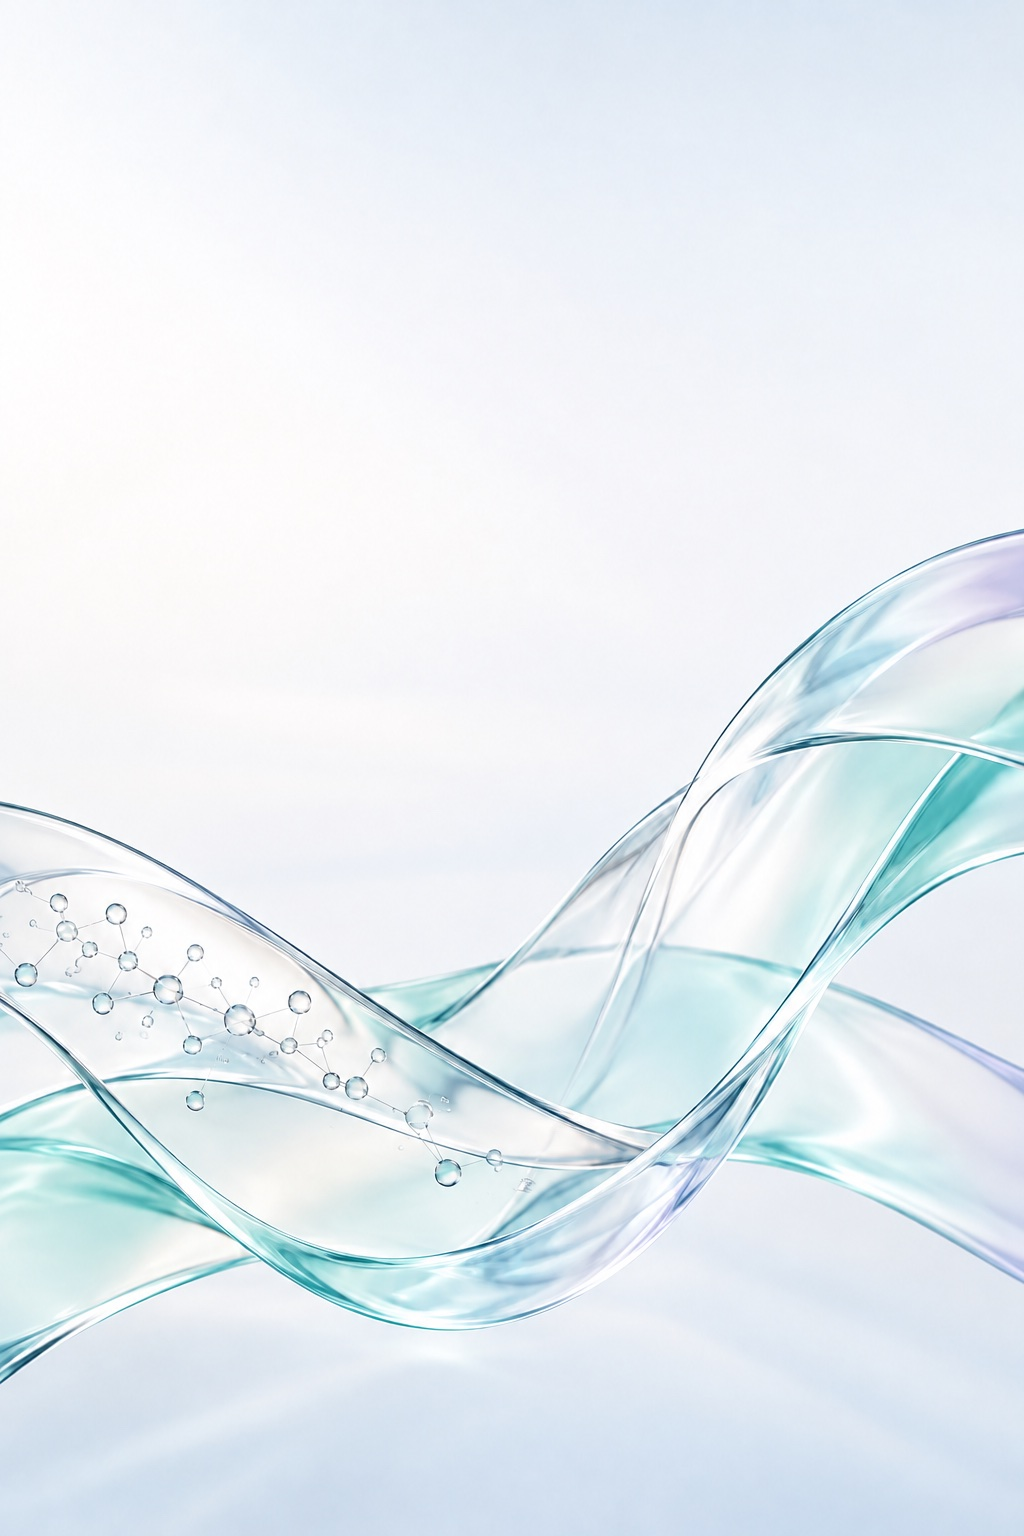
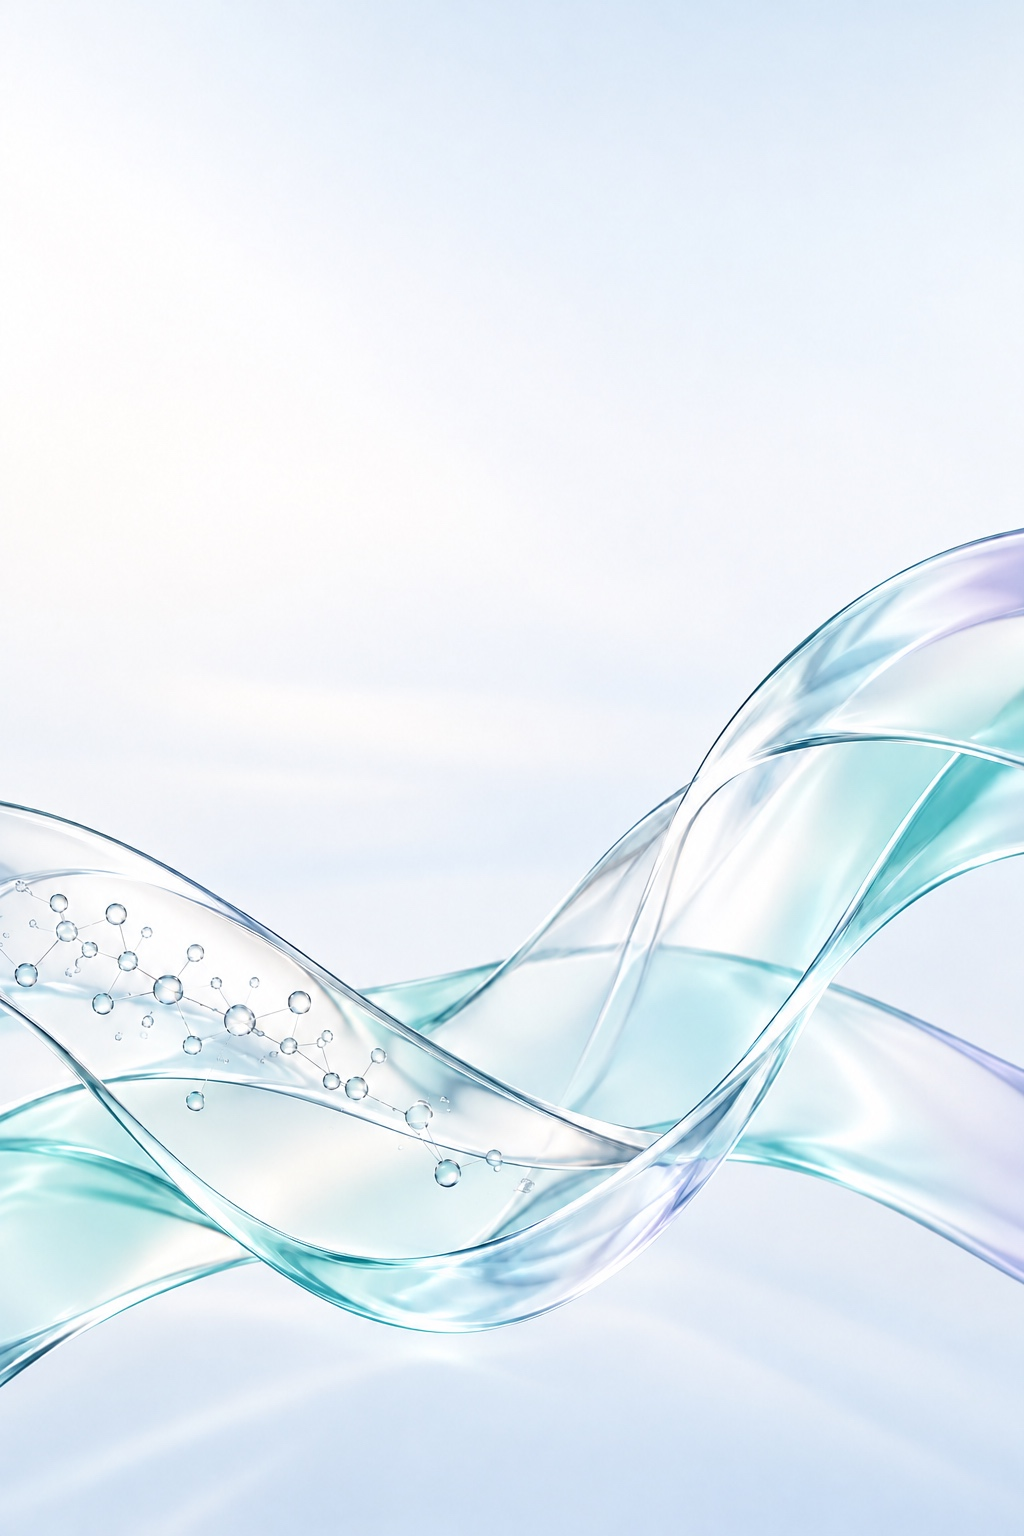
Auth left panel: sharper login-bg image

diff --git a/mypage-quote.html b/mypage-quote.html
@@ -9,12 +9,12 @@
      ?rid=프로젝트 번호 → 컨설턴트가 보낸 견적 요청: 의뢰내용 + 견적서 작성(고객사 / 공급자 / 제안가 / 소요 기간 / Notice) · 견적 거절 · 수정 요청 반영
      ?id=프로젝트번호 → 프로젝트 찾기에서 직접 쓰는 견적 (예전 방식, op.quotes2)
      ?id 없음 → 받은 견적 요청 목록. 데이터: assets/common/flow.js -->
-<link rel="stylesheet" href="assets/common/site.css?v=20261008w">
-<link rel="stylesheet" href="assets/common/mypage.css?v=20261008w">
-<script src="assets/common/site.js?v=20261008w"></script>
-<script src="assets/common/mypage.js?v=20261008w"></script>
-<script src="assets/common/flow.js?v=20261008w"></script>
-<script src="assets/common/projects-data.js?v=20261008w"></script>
+<link rel="stylesheet" href="assets/common/site.css?v=20261008x">
+<link rel="stylesheet" href="assets/common/mypage.css?v=20261008x">
+<script src="assets/common/site.js?v=20261008x"></script>
+<script src="assets/common/mypage.js?v=20261008x"></script>
+<script src="assets/common/flow.js?v=20261008x"></script>
+<script src="assets/common/projects-data.js?v=20261008x"></script>
 <style>
   /* 탭 (상단에 붙음) */
   .qtabs { position:sticky; top:70px; z-index:5; display:flex; gap:8px; margin:-24px -24px 0; padding:16px 24px; background:#fff; border-radius:16px 16px 0 0; border-bottom:1px solid var(--gray-200); }

diff --git a/mypage-leave.html b/mypage-leave.html
@@ -7,11 +7,11 @@
 <title>회원 탈퇴 · 마이페이지 · OmicsPharm</title>
 <!-- 마이페이지 > 내 정보 관리 > 회원 탈퇴 (Figma 시안 없음, 레퍼런스 화면 구성: 탈퇴 안내 → 탈퇴 사유·개선사항 → 동의 → 취소/탈퇴).
      진행 중인 프로젝트·계약이 있으면 탈퇴 불가. 데모: 탈퇴하면 이 브라우저의 계정(op.accounts)을 지우고 로그아웃 (데모 계정은 로그아웃만) -->
-<link rel="stylesheet" href="assets/common/site.css?v=20261008w">
-<link rel="stylesheet" href="assets/common/mypage.css?v=20261008w">
-<script src="assets/common/site.js?v=20261008w"></script>
-<script src="assets/common/mypage.js?v=20261008w"></script>
-<script src="assets/common/flow.js?v=20261008w"></script>
+<link rel="stylesheet" href="assets/common/site.css?v=20261008x">
+<link rel="stylesheet" href="assets/common/mypage.css?v=20261008x">
+<script src="assets/common/site.js?v=20261008x"></script>
+<script src="assets/common/mypage.js?v=20261008x"></script>
+<script src="assets/common/flow.js?v=20261008x"></script>
 <style>
   .leave-card { gap:40px; }
   .sec h4 { margin-bottom:12px; font-size:18px; font-weight:600; line-height:24px; letter-spacing:-.18px; }

diff --git a/omicspharm-project-detail-prot.html b/omicspharm-project-detail-prot.html
@@ -6,11 +6,11 @@
 <link rel="icon" type="image/png" href="assets/common/favicon.png?v=2">
 <title>프로젝트 상세 · 단백체 분석 · OmicsPharm</title>
 <!-- Figma: 프로젝트 상세 – 단백체 분석 (867:21166). ?id=로 프로젝트를 고르며, 상단 요약은 데이터에서, 아래 상세 항목은 예시 내용을 공통으로 사용. 오른쪽 '비슷한 프로젝트 찾기 · 검색 AI' 카드(1063:26165)는 기능 확정 전이라 제외 -->
-<link rel="stylesheet" href="assets/common/site.css?v=20261008w">
-<script src="assets/common/site.js?v=20261008w"></script>
-<script src="assets/common/mypage.js?v=20261008w"></script>
-<script src="assets/common/flow.js?v=20261008w"></script>
-<script src="assets/common/projects-data.js?v=20261008w"></script>
+<link rel="stylesheet" href="assets/common/site.css?v=20261008x">
+<script src="assets/common/site.js?v=20261008x"></script>
+<script src="assets/common/mypage.js?v=20261008x"></script>
+<script src="assets/common/flow.js?v=20261008x"></script>
+<script src="assets/common/projects-data.js?v=20261008x"></script>
 <style>
   :root {
     --teal-50:#edfefa; --teal-600:#009788; --teal-700:#00786e; --bg-green:#f6faf9;

diff --git a/projects.html b/projects.html
@@ -8,11 +8,11 @@
 <!-- Figma: Find Projects1-list (993:12559) · Find Projects1-grid (996:13677)
      카드: Project-list (974:7938) · Project-card Type=card (147:1266)
      B안: Find Projects2-list (831:3469) · Find Projects2-grid (977:9070) — 오른쪽을 흰 박스 하나로 묶고 행을 구분선으로 나열. 기존 목록형(A안)은 ?list=a 로 비교. 그리드형은 구분선 격자가 기본, 박스 안 카드형은 ?grid=a 로 비교 -->
-<link rel="stylesheet" href="assets/common/site.css?v=20261008w">
-<script src="assets/common/site.js?v=20261008w"></script>
-<script src="assets/common/mypage.js?v=20261008w"></script>
-<script src="assets/common/flow.js?v=20261008w"></script>
-<script src="assets/common/projects-data.js?v=20261008w"></script>
+<link rel="stylesheet" href="assets/common/site.css?v=20261008x">
+<script src="assets/common/site.js?v=20261008x"></script>
+<script src="assets/common/mypage.js?v=20261008x"></script>
+<script src="assets/common/flow.js?v=20261008x"></script>
+<script src="assets/common/projects-data.js?v=20261008x"></script>
 <style>
   :root {
     --teal-50:#edfefa; --teal-500:#00bba6; --teal-600:#009788; --teal-700:#00786e;

diff --git a/mypage-alarm.html b/mypage-alarm.html
@@ -7,11 +7,11 @@
 <title>알림 · 마이페이지 · OmicsPharm</title>
 <!-- 마이페이지 > 알림 (Figma 시안 없음). GNB 종 아이콘이 이 화면으로 연결된다.
      알림은 이 브라우저의 의뢰·문의 기록 + 공지로 만든다(assets/common/mypage.js). 읽음 상태는 localStorage op.alarmRead -->
-<link rel="stylesheet" href="assets/common/site.css?v=20261008w">
-<link rel="stylesheet" href="assets/common/mypage.css?v=20261008w">
-<script src="assets/common/site.js?v=20261008w"></script>
-<script src="assets/common/mypage.js?v=20261008w"></script>
-<script src="assets/common/flow.js?v=20261008w"></script>
+<link rel="stylesheet" href="assets/common/site.css?v=20261008x">
+<link rel="stylesheet" href="assets/common/mypage.css?v=20261008x">
+<script src="assets/common/site.js?v=20261008x"></script>
+<script src="assets/common/mypage.js?v=20261008x"></script>
+<script src="assets/common/flow.js?v=20261008x"></script>
 <style>
   .bar { display:flex; align-items:center; justify-content:space-between; gap:16px; }
   .readall { font-size:14px; font-weight:500; line-height:20px; color:var(--gray-500); white-space:nowrap; }

diff --git a/mypage-request.html b/mypage-request.html
@@ -9,11 +9,11 @@
      ?id 없음 → 들어온 의뢰 목록 (검토 대기 / 견적 수집 중 / 클라이언트 검토 / 매칭 완료)
      ?id=프로젝트 번호 → 의뢰 검토 → 분석파트너 선택·견적 요청 → 견적 확인(수정 요청) → 클라이언트에게 전달 → 매칭 결과
      데이터: assets/common/flow.js (localStorage op.flow) -->
-<link rel="stylesheet" href="assets/common/site.css?v=20261008w">
-<link rel="stylesheet" href="assets/common/mypage.css?v=20261008w">
-<script src="assets/common/site.js?v=20261008w"></script>
-<script src="assets/common/mypage.js?v=20261008w"></script>
-<script src="assets/common/flow.js?v=20261008w"></script>
+<link rel="stylesheet" href="assets/common/site.css?v=20261008x">
+<link rel="stylesheet" href="assets/common/mypage.css?v=20261008x">
+<script src="assets/common/site.js?v=20261008x"></script>
+<script src="assets/common/mypage.js?v=20261008x"></script>
+<script src="assets/common/flow.js?v=20261008x"></script>
 <style>
   /* 목록 */
   .meta { display:flex; flex-wrap:wrap; align-items:center; gap:12px; font-size:14px; line-height:20px; }

diff --git a/mypage.html b/mypage.html
@@ -7,11 +7,11 @@
 <title>마이페이지 · OmicsPharm</title>
 <!-- 마이페이지 > 대시보드 (Figma 시안 없음 — 프로젝트 관리 화면과 같은 틀로 구성)
      진행 현황 / 최근 프로젝트 / 최근 알림 / 최근 문의. 데이터는 이 브라우저에서 제출한 의뢰·문의 기준 -->
-<link rel="stylesheet" href="assets/common/site.css?v=20261008w">
-<link rel="stylesheet" href="assets/common/mypage.css?v=20261008w">
-<script src="assets/common/site.js?v=20261008w"></script>
-<script src="assets/common/mypage.js?v=20261008w"></script>
-<script src="assets/common/flow.js?v=20261008w"></script>
+<link rel="stylesheet" href="assets/common/site.css?v=20261008x">
+<link rel="stylesheet" href="assets/common/mypage.css?v=20261008x">
+<script src="assets/common/site.js?v=20261008x"></script>
+<script src="assets/common/mypage.js?v=20261008x"></script>
+<script src="assets/common/flow.js?v=20261008x"></script>
 <style>
   .hello { flex-direction:row; align-items:center; justify-content:space-between; }
   .hello h2 { font-size:22px; font-weight:700; line-height:32px; letter-spacing:-.22px; }

diff --git a/mypage-account.html b/mypage-account.html
@@ -7,11 +7,11 @@
 <title>내 정보 관리 · 마이페이지 · OmicsPharm</title>
 <!-- 마이페이지 > 내 정보 관리 (Figma 시안 없음). 기본 정보 / (분석파트너) 분석 가능 서비스 / 비밀번호 변경 / 알림 설정 / 회원 탈퇴.
      데모: 저장은 이 브라우저 localStorage(op.accounts, op.alarmPref)에만 된다 -->
-<link rel="stylesheet" href="assets/common/site.css?v=20261008w">
-<link rel="stylesheet" href="assets/common/mypage.css?v=20261008w">
-<script src="assets/common/site.js?v=20261008w"></script>
-<script src="assets/common/mypage.js?v=20261008w"></script>
-<script src="assets/common/flow.js?v=20261008w"></script>
+<link rel="stylesheet" href="assets/common/site.css?v=20261008x">
+<link rel="stylesheet" href="assets/common/mypage.css?v=20261008x">
+<script src="assets/common/site.js?v=20261008x"></script>
+<script src="assets/common/mypage.js?v=20261008x"></script>
+<script src="assets/common/flow.js?v=20261008x"></script>
 <style>
   .card form { display:flex; flex-direction:column; gap:20px; }
   /* 표 형식 입력 (문의하기·프로젝트 의뢰와 동일) */

diff --git a/mypage-project.html b/mypage-project.html
@@ -7,11 +7,11 @@
 <title>마이페이지 · 프로젝트 관리 · OmicsPharm</title>
 <!-- 마이페이지 > 프로젝트 관리 > 의뢰내용. 현행 사이트 구성을 새 디자인 체계(Figma 토큰·컴포넌트)로 옮긴 임시 화면.
      분석 의뢰 제출 시 omicspharm-register.html이 localStorage 'op.submitted'에 저장한 내용을 보여준다 -->
-<link rel="stylesheet" href="assets/common/site.css?v=20261008w">
-<link rel="stylesheet" href="assets/common/mypage.css?v=20261008w">
-<script src="assets/common/site.js?v=20261008w"></script>
-<script src="assets/common/mypage.js?v=20261008w"></script>
-<script src="assets/common/flow.js?v=20261008w"></script>
+<link rel="stylesheet" href="assets/common/site.css?v=20261008x">
+<link rel="stylesheet" href="assets/common/mypage.css?v=20261008x">
+<script src="assets/common/site.js?v=20261008x"></script>
+<script src="assets/common/mypage.js?v=20261008x"></script>
+<script src="assets/common/flow.js?v=20261008x"></script>
 <style>
   :root {
     --teal-50:#edfefa; --teal-600:#009788; --teal-700:#00786e; --bg-green:#f6faf9;

diff --git a/mypage-inquiry.html b/mypage-inquiry.html
@@ -7,11 +7,11 @@
 <title>문의내역 · 마이페이지 · OmicsPharm</title>
 <!-- 마이페이지 > 문의내역 (Figma 시안 없음). 문의하기(contact.html)에서 보낸 문의(localStorage op.inquiries) + 답변 완료 예시 1건.
      행을 누르면 문의 내용과 답변이 펼쳐진다. ?id= 로 들어오면 해당 문의를 펼친다 -->
-<link rel="stylesheet" href="assets/common/site.css?v=20261008w">
-<link rel="stylesheet" href="assets/common/mypage.css?v=20261008w">
-<script src="assets/common/site.js?v=20261008w"></script>
-<script src="assets/common/mypage.js?v=20261008w"></script>
-<script src="assets/common/flow.js?v=20261008w"></script>
+<link rel="stylesheet" href="assets/common/site.css?v=20261008x">
+<link rel="stylesheet" href="assets/common/mypage.css?v=20261008x">
+<script src="assets/common/site.js?v=20261008x"></script>
+<script src="assets/common/mypage.js?v=20261008x"></script>
+<script src="assets/common/flow.js?v=20261008x"></script>
 <style>
   .bar { display:flex; align-items:center; justify-content:space-between; gap:16px; }
 

diff --git a/assets/auth/auth.css b/assets/auth/auth.css
@@ -20,7 +20,7 @@ input { font:inherit; color:inherit; }
 
 /* ── 왼쪽: login-bg (Figma 1475:13273) ── */
 /* 왼쪽 패널은 화면 높이에 고정(스크롤해도 그대로), 오른쪽만 길어지면 페이지가 스크롤된다 */
-.auth-bg { flex:1 1 0; min-width:0; position:sticky; top:0; height:100vh; align-self:flex-start; overflow:hidden; background:#f4f7fa url(login-bg2.jpg) center/cover no-repeat; }
+.auth-bg { flex:1 1 0; min-width:0; position:sticky; top:0; height:100vh; align-self:flex-start; overflow:hidden; background:#f4f7fa url(login-bg2.jpg?v=2) center/cover no-repeat; }
 /* Figma 720×1024 기준: 문구는 위에서 200px. 패널 크기에 맞춰 비율로 확대·축소 (auth.js가 --s 계산) */
 .auth-card { position:absolute; inset:0; }
 .auth-card .tagline { position:absolute; left:50%; top:calc(200 / 1024 * 100%); transform:translateX(-50%) scale(var(--s, 1)); transform-origin:top center; width:437px; display:flex; flex-direction:column; gap:16px; align-items:center; text-align:center; color:#000; }

diff --git a/index.html b/index.html
@@ -6,11 +6,11 @@
 <link rel="icon" type="image/png" href="assets/common/favicon.png?v=2">
 <title>OmicsPharm</title>
 <!-- Figma: [OmicsPharm] Renewal / 03_디자인(작업중) / 1440_시안1 (180:5300) -->
-<link rel="stylesheet" href="assets/common/site.css?v=20261008w">
-<script src="assets/common/site.js?v=20261008w"></script>
-<script src="assets/common/mypage.js?v=20261008w"></script>
-<script src="assets/common/flow.js?v=20261008w"></script>
-<script src="assets/common/projects-data.js?v=20261008w"></script>
+<link rel="stylesheet" href="assets/common/site.css?v=20261008x">
+<script src="assets/common/site.js?v=20261008x"></script>
+<script src="assets/common/mypage.js?v=20261008x"></script>
+<script src="assets/common/flow.js?v=20261008x"></script>
+<script src="assets/common/projects-data.js?v=20261008x"></script>
 <style>
   :root {
     --teal-50:#edfefa; --teal-500:#00bba6; --teal-600:#009788; --teal-700:#00786e; --teal-900:#004f4a;
